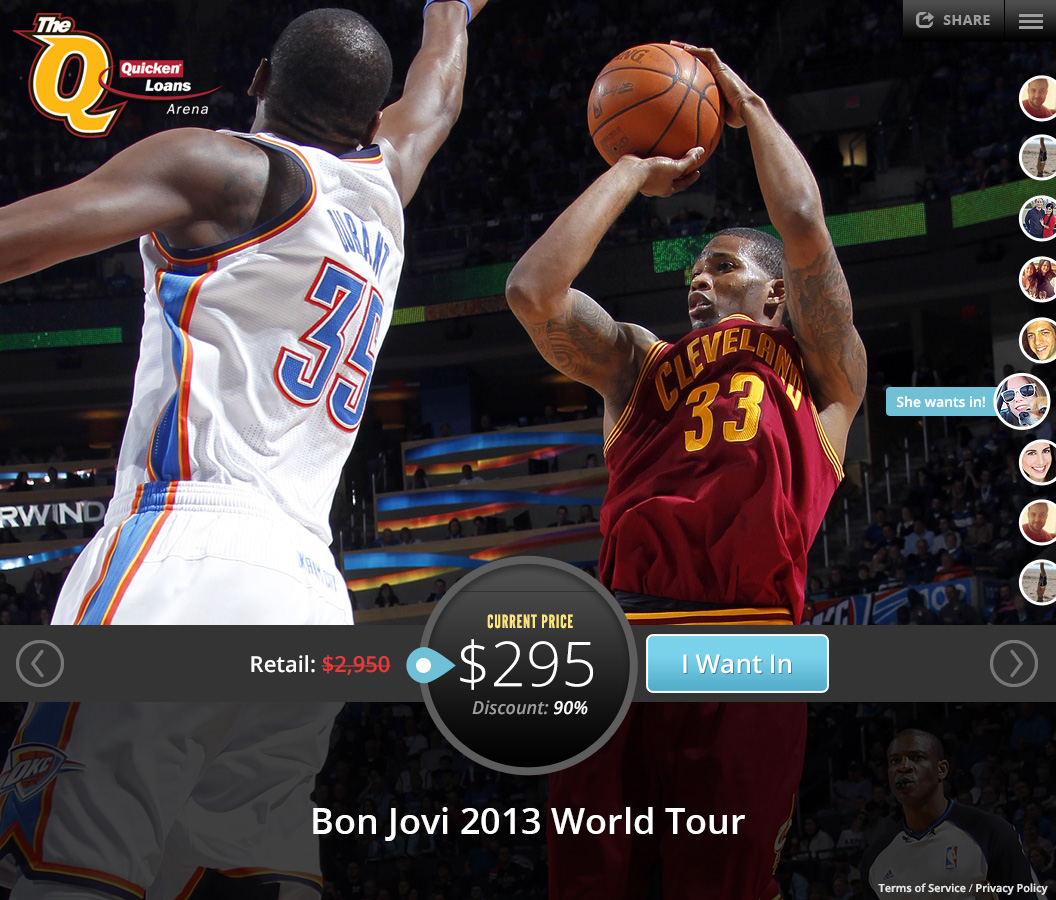
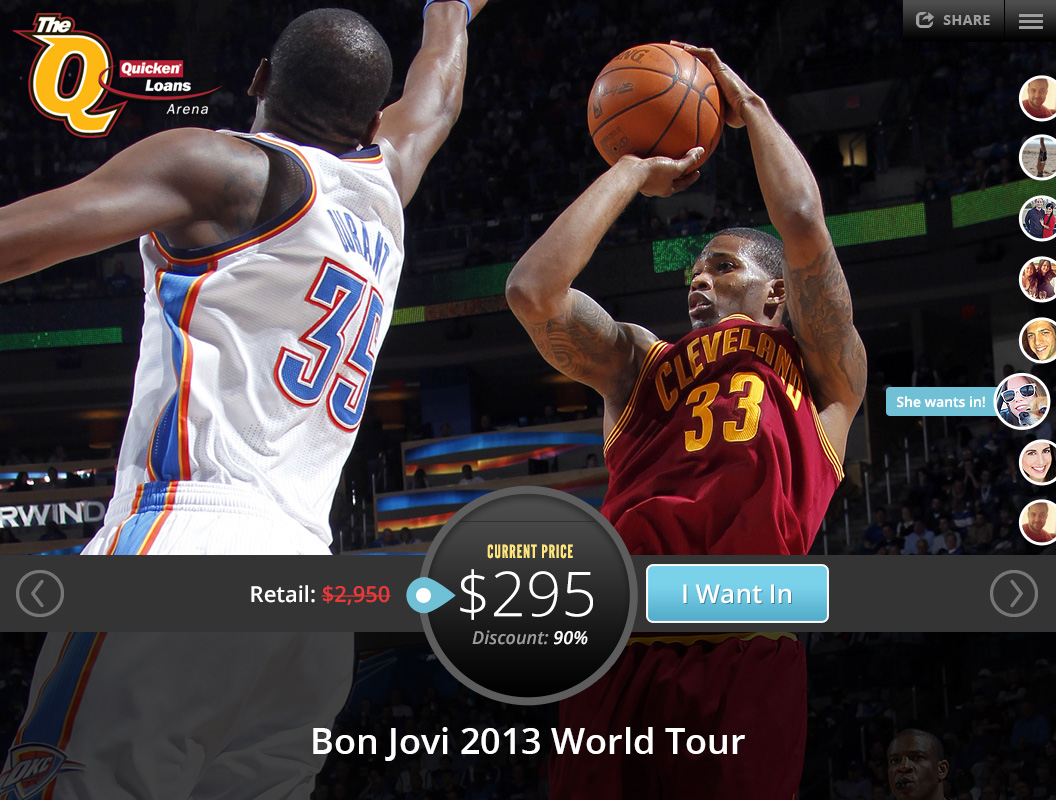
added buttons and more

diff --git a/js/main.js b/js/main.js
@@ -35,7 +35,6 @@
     Landing.prototype.listenScroll = function() {
       var _this = this;
 
-      console.log('listen for scroll');
       return this.mainWrap.bind('mousewheel', function(event, delta, deltaX, deltaY) {
         return _this.handleScroll(deltaY);
       });
@@ -51,20 +50,18 @@
 
     Landing.prototype.positiveScroll = function(deltaY) {
       this.scrollNum = this.scrollNum + deltaY;
-      if (this.scrollNum > this.scrollThreshold) {
+      if (this.scrollNum >= this.scrollThreshold) {
         this.closeDetail();
-        this.scrollNum = 0;
+        return this.scrollNum = 0;
       }
-      return console.log('positive: ' + deltaY);
     };
 
     Landing.prototype.negativeScroll = function(deltaY) {
       this.scrollNum = this.scrollNum + deltaY;
-      if (this.scrollNum < -this.scrollThreshold) {
+      if (this.scrollNum <= -this.scrollThreshold) {
         this.openDetail();
-        this.scrollNum = 0;
+        return this.scrollNum = 0;
       }
-      return console.log('negative: ' + this.scrollNum);
     };
 
     Landing.prototype.openDetail = function() {

diff --git a/css/main.css b/css/main.css
@@ -91,10 +91,7 @@ body {
         position: relative;
         margin: 0 auto;
     }
-    .view img {
-
-    }
-
+    
     .landing-view {
         
     }
@@ -103,8 +100,8 @@ body {
     }
 
     .details-btn {
-        position: absolute;
-        bottom: 30px;
+        position: fixed;
+        bottom: 0px;
         left: 38%;
         margin-left: 70px;
         background: url(../img/details_btn.png);

diff --git a/index.html b/index.html
@@ -13,8 +13,8 @@
     <body>
         <div id="main-wrap">
             <div class="view landing-view">
-                <img src="img/deal_landing.jpg">
                 <div class="details-btn"></div>
+                <img src="img/deal_landing.jpg">
             </div>
             <div class="view detail-view transition">
                 <img src="img/deal_detail.jpg">
